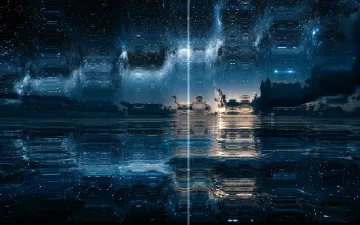
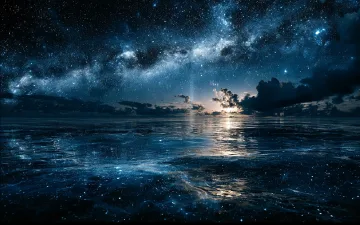
wave_at warps where its band is: one front for the ridge and the band, soft band (SH-E); corona ring without a seam, jitter by the current ring (SH-E)

diff --git a/scena/effects.py b/scena/effects.py
@@ -787,6 +787,62 @@ _RIPPLE_FALLOFF = 1.35
 _EXPLOSION_SHOCK_SPAN = 0.4
 
 
+def _wave_front(u: float, w: float, h: float) -> Tuple[float, float, float]:
+    """``wave_at`` front at progress ``u`` (0–1): ``(distance, band, half_length)`` px.
+
+    One source for the warp ridge (``_RIPPLE_SKSL`` linear mode) and the accent
+    band, so the two travel together. The front slows as it goes (a shock
+    spends itself); the band grows longer as it spreads.
+    """
+    short = max(1.0, min(float(w), float(h)))
+    u = max(0.0, min(1.0, float(u)))
+    eased = 1.0 - (1.0 - u) ** 2
+    return (
+        short * (0.03 + 0.62 * eased),
+        short * 0.07,
+        short * (0.2 + 0.4 * eased),
+    )
+
+
+# wave_at band across the front, in core widths from the front (− = behind):
+# a sharp leading edge and a longer glow trailing toward the source.
+_WAVE_BAND_STOPS = ((-6.0, 0.0), (-2.5, 0.15), (-0.8, 0.5), (0.0, 1.0), (0.8, 0.3), (2.0, 0.0))
+
+
+def _draw_wave_band(canvas, cx: float, cy: float, angle: float, u: float, w: float, h: float) -> None:
+    """``wave_at`` accent: light on the front of ``_wave_front``, faded at both ends."""
+    front, band, half = _wave_front(u, w, h)
+    rise = min(1.0, u / 0.06)
+    peak = 0.6 * (1.0 - u) ** 1.2 * rise
+    if peak < 1e-3:
+        return
+    core = band * 0.22
+    x0 = front + _WAVE_BAND_STOPS[0][0] * core
+    x1 = front + _WAVE_BAND_STOPS[-1][0] * core
+    span = x1 - x0
+    r, g, b = 0.85, 0.95, 1.0
+    across = skia.GradientShader.MakeLinear(
+        [skia.Point(x0, 0.0), skia.Point(x1, 0.0)],
+        [skia.Color4f(r, g, b, peak * a).toColor() for _, a in _WAVE_BAND_STOPS],
+        [(front + k * core - x0) / span for k, _ in _WAVE_BAND_STOPS],
+    )
+    along = skia.GradientShader.MakeLinear(
+        [skia.Point(0.0, -half), skia.Point(0.0, half)],
+        [0x00FFFFFF, 0xFFFFFFFF, 0xFFFFFFFF, 0x00FFFFFF],
+        [0.0, 0.3, 0.7, 1.0],
+    )
+    paint = skia.Paint(
+        Shader=skia.Shaders.Blend(skia.BlendMode.kModulate, across, along),
+        AntiAlias=True,
+        BlendMode=skia.BlendMode.kPlus,
+    )
+    canvas.save()
+    canvas.translate(cx, cy)
+    canvas.rotate(math.degrees(angle))
+    canvas.drawRect(skia.Rect.MakeLTRB(x0, -half, x1, half), paint)
+    canvas.restore()
+
+
 def _zap_soft_disc_image():
     """White soft radial disc (premul) — same recipe as SpatialFx GlowSpot stamps."""
     global _ZAP_SOFT_DISC, _ZAP_SOFT_SAMPLING
@@ -1369,6 +1425,23 @@ def _draw_zap_fork(canvas, zap: dict, ox: float, oy: float, dx: float, t: float)
             )
 
 
+def _corona_ring_points(ox: float, oy: float, ring_r: float, n_arc: int, seed: float, t: float) -> list:
+    """The corona ring's ``n_arc`` vertices, once each (the caller closes the path).
+
+    Jitter is a share of the ring's current radius: a fraction of the final
+    radius mangles the small ring of the first frames. A vertex at ``tau``
+    would repeat vertex 0 with another hash and draw a notch at the seam.
+    """
+    pts = []
+    for i in range(n_arc):
+        ang = i / n_arc * math.tau + t * 3.5
+        j = (_frac_hash(i + 0.5, seed + t * 0.7) - 0.5) * ring_r * 0.12
+        j += math.sin(ang * 5.0 + t * 22.0) * ring_r * 0.04
+        r = ring_r + j
+        pts.append((ox + math.cos(ang) * r, oy + math.sin(ang) * r))
+    return pts
+
+
 def _draw_zap_corona(canvas, zap: dict, ox: float, oy: float, dx: float, t: float) -> None:
     """v3 — electric corona: expanding jagged ring + rim arcs (ElectricBolt family)."""
     p = zap["t"] / max(zap["duration"], 1e-3)
@@ -1391,14 +1464,7 @@ def _draw_zap_corona(canvas, zap: dict, ox: float, oy: float, dx: float, t: floa
     n_arc = 6 if survival else max(8, len(zap["parts"]))
     # Closed jagged corona path
     path = skia.Path()
-    for i in range(n_arc + 1):
-        u = i / n_arc
-        ang = u * math.tau + t * 3.5
-        j = (_frac_hash(i + 0.5, zap["seed"] + t * 0.7) - 0.5) * radius * 0.12
-        j += math.sin(ang * 5.0 + t * 22.0) * radius * 0.04
-        r = ring_r + j
-        x = ox + math.cos(ang) * r
-        y = oy + math.sin(ang) * r
+    for i, (x, y) in enumerate(_corona_ring_points(ox, oy, ring_r, n_arc, zap["seed"], t)):
         if i == 0:
             path.moveTo(x, y)
         else:
@@ -2846,6 +2912,8 @@ class HitFeedback(PostEffect):
                 mode=self._ripple_mode if need_ripple else 0.0,
                 angle=self._ripple_angle if need_ripple else 0.0,
                 span=self._ripple_span if need_ripple else 1.0,
+                front=_wave_front(progress, w, h)
+                if need_ripple and self._ripple_mode > 0.5 else (0.0, 0.0, 0.0),
             )
         if need_shake:
             canvas.restore()
@@ -2880,30 +2948,13 @@ class HitFeedback(PostEffect):
             )
             canvas.drawCircle(cx, cy, radius, paint)
 
-        # Linear wave accent: short glowing band along the front.
+        # Linear wave accent: a soft band of light on the warp's front.
         if self._ripple_shock and self._ripple_t < 0.9 and self._ripple_mode > 0.5:
-            u = self._ripple_t / 0.9
-            alpha = max(0.0, 1.0 - u)
-            cx = self._ripple_uv[0] * w + sox
-            cy = self._ripple_uv[1] * h + soy
-            # Progress pushes the front outward along the wave normal.
-            dist = (20.0 + u * min(w, h) * 0.4)
-            nx = math.cos(self._ripple_angle)
-            ny = math.sin(self._ripple_angle)
-            px, py = -ny, nx
-            half_len = min(w, h) * 0.55
-            x0 = cx + nx * dist - px * half_len
-            y0 = cy + ny * dist - py * half_len
-            x1 = cx + nx * dist + px * half_len
-            y1 = cy + ny * dist + py * half_len
-            paint = skia.Paint(
-                Style=skia.Paint.kStroke_Style,
-                StrokeWidth=3.0 + 5.0 * (1.0 - u),
-                Color4f=skia.Color4f(0.85, 0.95, 1.0, 0.32 * alpha),
-                AntiAlias=True,
-                BlendMode=skia.BlendMode.kPlus,
+            _draw_wave_band(
+                canvas,
+                self._ripple_uv[0] * w + sox, self._ripple_uv[1] * h + soy,
+                self._ripple_angle, self._ripple_t / 0.9, w, h,
             )
-            canvas.drawLine(x0, y0, x1, y1, paint)
 
         # Pyro pool: cinematic (screen-scaled) + local (design radius) bursts.
         for b in self._bursts:

diff --git a/scena/_sksl_effects.py b/scena/_sksl_effects.py
@@ -287,33 +287,41 @@ uniform float u_flash;
 uniform float u_mode;
 uniform float u_angle;
 uniform float u_span;
+uniform float u_front;
+uniform float u_band;
+uniform float u_half;
 
 half4 main(float2 coord) {
     float2 uv = coord / resolution;
     float aspect = resolution.y / max(resolution.x, 1.0);
+    // d is in widths on both axes: dot(d, dir) * resolution.x is pixels.
     float2 d = float2(uv.x - u_center.x, (uv.y - u_center.y) * aspect);
-    float span = max(u_span, 0.05);
-    float dist;
-    float2 n;
-    float wave_arg;
+    float2 disp;
     if (u_mode > 0.5) {
-        // Linear: displace along a single normal (no sign flip → no seam).
+        // Linear: one refracting ridge on the travelling front, the front the
+        // accent band is drawn on (u_front / u_band / u_half, in widths).
         float2 dir = float2(cos(u_angle), sin(u_angle));
-        float sd = dot(d, dir);
-        dist = abs(sd);
-        n = dir;
-        wave_arg = (sd / span) * 48.0 - (1.0 - u_progress) * 18.0;
+        float2 side = float2(-dir.y, dir.x);
+        float x = (dot(d, dir) - u_front) / max(u_band, 1e-4);
+        float along = 1.0 - smoothstep(u_half * 0.6, u_half, abs(dot(d, side)));
+        float rise = clamp(u_progress / 0.06, 0.0, 1.0);
+        float env = pow(max(0.0, 1.0 - u_progress), 1.5) * rise;
+        // Derivative of a Gaussian, peak 1: a push ahead and a pull behind.
+        float ridge = -x * exp(-x * x) * 2.3316;
+        disp = dir * ridge * along * env * u_strength * u_band * 0.3 * resolution.x;
     } else {
-        dist = length(d);
-        n = dist > 1e-4 ? d / dist : float2(0.0);
-        wave_arg = (dist / span) * 48.0 - (1.0 - u_progress) * 18.0;
+        float span = max(u_span, 0.05);
+        float dist = length(d);
+        float2 n = dist > 1e-4 ? d / dist : float2(0.0);
+        float wave_arg = (dist / span) * 48.0 - (1.0 - u_progress) * 18.0;
+        float env = max(0.0, 1.0 - u_progress);
+        env = env * env;
+        float wave = sin(wave_arg);
+        float fall = max(0.0, 1.0 - (dist / span) * 1.35);
+        float amp = fall * wave * env * u_strength;
+        disp = n * amp * resolution.x * 0.045;
     }
-    float env = max(0.0, 1.0 - u_progress);
-    env = env * env;
-    float wave = sin(wave_arg);
-    float fall = max(0.0, 1.0 - (dist / span) * 1.35);
-    float amp = fall * wave * env * u_strength;
-    float2 sample_xy = coord + n * amp * resolution.x * 0.045;
+    float2 sample_xy = coord + disp;
     half4 col = image.eval(sample_xy);
     col.rgb = mix(col.rgb, half3(1.0), half(clamp(u_flash, 0.0, 1.0)));
     return col;
@@ -1303,10 +1311,13 @@ def draw_ripple_shader(
     mode: float = 0.0,
     angle: float = 0.0,
     span: float = 1.0,
+    front: Tuple[float, float, float] = (0.0, 0.0, 0.0),
 ) -> None:
     """Fullscreen hit-ripple / linear wave + optional white flash (HitFeedback).
 
     ``span`` scales the warp radius (1 = ``ripple_at``; explosion shock is smaller).
+    ``front`` is the linear wave's ``(distance, band, half_length)`` in pixels
+    (``effects._wave_front``), the same numbers the accent band is drawn with.
     """
     sh = image.makeShader(skia.TileMode.kClamp, skia.TileMode.kClamp)
     _ripple_builder.setChild("image", sh)
@@ -1318,7 +1329,25 @@ def draw_ripple_shader(
     _ripple_builder.setUniform("u_mode", float(mode))
     _ripple_builder.setUniform("u_angle", float(angle))
     _ripple_builder.setUniform("u_span", float(max(span, 0.05)))
+    wd = max(float(w), 1.0)
+    _ripple_builder.setUniform("u_front", float(front[0]) / wd)
+    _ripple_builder.setUniform("u_band", float(front[1]) / wd)
+    _ripple_builder.setUniform("u_half", float(front[2]) / wd)
     paint = skia.Paint(Shader=_ripple_builder.makeShader(), AntiAlias=False)
+    if mode > 0.5 and flash <= 0.0 and front[1] > 0.0:
+        # The linear ridge moves nothing past 3 band widths (exp(-9)) or past
+        # the band's length: the plain image, then the shader on that strip.
+        canvas.drawImage(image, 0, 0)
+        canvas.save()
+        m = canvas.getTotalMatrix()
+        canvas.translate(float(center_uv[0]) * w, float(center_uv[1]) * h)
+        canvas.rotate(math.degrees(float(angle)))
+        f, b, half = (float(v) for v in front)
+        canvas.clipRect(skia.Rect.MakeLTRB(f - 3.2 * b, -half, f + 3.2 * b, half), False)
+        canvas.setMatrix(m)
+        canvas.drawRect(skia.Rect.MakeWH(w, h), paint)
+        canvas.restore()
+        return
     canvas.drawRect(skia.Rect.MakeWH(w, h), paint)
 
 

diff --git a/tests/test_postfx.py b/tests/test_postfx.py
@@ -360,6 +360,69 @@ class TestPostFxStack(unittest.TestCase):
         hit = canvas.effects._hit_feedback()
         self.assertLess(hit._shake, 0.5)
 
+    def _wave_row_centres(self, hit):
+        """Row y=300 of an 800×600 plate: (warp centre x, band peak x, warp share behind x=400)."""
+        import numpy as np
+        import skia
+        src_s = skia.Surface(800, 600)
+        sc = src_s.getCanvas()
+        sc.clear(skia.ColorBLACK)
+        for x in range(0, 800, 8):
+            sc.drawRect(skia.Rect.MakeXYWH(x, 0, 4, 600), skia.Paint(Color=skia.ColorWHITE))
+        src = src_s.makeImageSnapshot()
+        base = src.toarray(colorType=skia.kRGBA_8888_ColorType)[300, :, 0].astype(float)
+        out = skia.Surface(800, 600)
+        hit._draw_shader(out.getCanvas(), src, 800, 600, 0.0)
+        row = out.makeImageSnapshot().toarray(colorType=skia.kRGBA_8888_ColorType)[300, :, 0]
+        diff = np.abs(row.astype(float) - base)
+        xs = np.arange(800)
+        warp = float((diff * xs).sum() / max(diff.sum(), 1e-6))
+        band = self._render(hit)[300, :, 0].astype(float)
+        return warp, float(band.argmax()), float(diff[:390].sum() / max(diff.sum(), 1e-6))
+
+    def test_wave_at_band_rides_the_warp_front(self):
+        # SH-E: the warp's crests moved toward the origin, on both sides of
+        # it, while the accent line marched one way: the line sat on nothing.
+        # Now one front (_wave_front) places the warp ridge and the band.
+        from scena.effects import _wave_front
+        canvas.effects.clear()
+        canvas.wave_at(400, 300, angle=0, shake=False)
+        hit = canvas.effects._hit_feedback()
+        seen = []
+        for dt in (0.15, 0.25):
+            hit.tick_frame(dt, canvas)
+            warp, band, behind = self._wave_row_centres(hit)
+            front, width, _ = _wave_front(hit._ripple_t / 0.9, 800, 600)
+            self.assertAlmostEqual(warp, 400 + front, delta=width * 0.4)
+            self.assertAlmostEqual(band, 400 + front, delta=width * 0.25)
+            self.assertLess(behind, 0.02)   # one-sided: nothing warps behind the source
+            seen.append(warp)
+        self.assertGreater(seen[1], seen[0] + 20)   # the front travels outward
+
+    def test_wave_front_moves_out_and_slows(self):
+        from scena.effects import _wave_front
+        fronts = [_wave_front(u / 10, 800, 600)[0] for u in range(11)]
+        steps = [b - a for a, b in zip(fronts, fronts[1:])]
+        self.assertTrue(all(s > 0 for s in steps))
+        self.assertTrue(all(b <= a for a, b in zip(steps, steps[1:])))
+
+    def test_corona_ring_has_no_seam(self):
+        # SH-E: the ring loop ran to i == n and drew vertex 0 again with
+        # another jitter, so a notch sat at the seam; jitter was a share of
+        # the final radius, so the small ring of the first frames was mangled.
+        from scena.effects import _corona_ring_points
+        for seed in (1.31, 2.62, 7.0):
+            for t in (0.0, 0.07, 0.31):
+                for ring_r in (6.0, 60.0):
+                    pts = _corona_ring_points(0.0, 0.0, ring_r, 12, seed, t)
+                    self.assertEqual(len(pts), 12)
+                    angs = sorted(math.atan2(y, x) % math.tau for x, y in pts)
+                    gaps = [b - a for a, b in zip(angs, angs[1:])] + [angs[0] + math.tau - angs[-1]]
+                    for g in gaps:
+                        self.assertAlmostEqual(g, math.tau / 12, delta=1e-6)
+                    for x, y in pts:
+                        self.assertLessEqual(abs(math.hypot(x, y) - ring_r), ring_r * 0.1 + 1e-9)
+
     def test_explosion_at_api(self):
         canvas.effects.clear()
         canvas.explosion_at(150, 250, amount=1.0)

diff --git a/design/Effect System Design.md b/design/Effect System Design.md
@@ -889,11 +889,11 @@ Replace-in-channel: a second `fade_out` / `fade_in` drops the in-flight tween an
 - `canvas.shake(amount=10)` — camera jitter (design pixels).
 - `canvas.glitch(amount=1.0)` — slice offsets + RGB split spike (0–1).
 - `ripple_at` — radial screen-warp + ring + shake; `amount` = warp/shake magnitude; `radius` = peak design-unit size (`None` = full-frame); `shock=True` (accent ring; warp still runs when off); `shake=True`; `flash=False` by default. Locus: `(x, y)` or one point-like (`info.point`, Graphic, …); `None` is a no-op.
-- `wave_at(x, y, angle=0)` — linear shockwave; same locus grammar; `shock=True` (accent band; warp still runs when off); `shake=True`; `flash=False` by default.
+- `wave_at(x, y, angle=0)` — linear shockwave; same locus grammar; `shock=True` (accent band; warp still runs when off); `shake=True`; `flash=False` by default. **One front:** `_wave_front(u, w, h)` gives the front's distance (eased: it slows as it goes), the ridge width and the half length, in FB pixels; the SkSL linear mode and `_draw_wave_band` both read it, so the warp and the band cannot drift apart (guard: `test_wave_at_band_rides_the_warp_front`). The warp is one refracting ridge on the front (a derivative of a Gaussian, peak displacement 0.3 × the ridge width × `amount`), on the side the wave travels to, faded at the band's ends. The band is Plus light, sharp on the leading edge with a longer glow trailing toward the source, faded at both ends. Without a flash, `draw_ripple_shader` draws the plain image and runs the shader only on the strip within 3.2 ridge widths of the front.
 - `explosion_at(..., shock=True, flash=False, rings=True)` — cinematic fireball + smoke; mild warp when `shock` (radius ~2/5 of `ripple_at`); camera shake; `flash` toggles whiteout; `rings` draws expanding stroke circles. (one big event + share the burst pool). Same locus grammar.
 - `burst_at(x, y, radius=42, amount=1.2, rings=False)` — local multi-instance pyro only (design-unit radius); no shake/flash/shock. Prefer for ship deaths etc. Same locus grammar (`burst_at(ship)`). Neither `burst_at` nor `explosion_at` has a `recipe=` any more: its `"flash"` disc-only pop was retired when `hit_at` landed; the disc now lives on as `hit_at(style="disc")` ([Fences](Fences.md)).
 - `fireworks_at(x, y, color=, color2=, radius=64, amount=1, count=28, fall=0, trail=0.35)` — celebration burst of stars at a point (no mortar, no shake/flash/shock). Distinct from `burst_at` (fireball) and SpatialFx `Sparks` (sticky). `fall=0` (default) peony; `~1.2` willow. `color2=None` derives near-white glitter from `color`. Pool ~24, auto-decays. Same locus grammar.
-- `zap_at(x, y, color=, radius=24, amount=1, count=, style="spark", flash=False)` — electric spark / lightning flash at a point (bright core + jagged rays). Between Bolt(tesla) and ElectricBolt. Styles: `spark` (impact bloom + short rays), `fork` (branched tesla bolts), `corona` (expanding jagged ring). Soft bloom uses GlowSpot soft-disc stamps at medium/high (concentric ADD discs at low); bolt strokes follow CheapGlow dual-ADD at medium and MaskFilter soft-band + sharp core at high. No shake/shock; optional `flash` whiteout. Distinct from SpatialFx `Sparks`. Pool ~24, auto-decays. Same locus grammar.
+- `zap_at(x, y, color=, radius=24, amount=1, count=, style="spark", flash=False)` — electric spark / lightning flash at a point (bright core + jagged rays). Between Bolt(tesla) and ElectricBolt. Styles: `spark` (impact bloom + short rays), `fork` (branched tesla bolts), `corona` (expanding jagged ring; `_corona_ring_points` gives each vertex once — a vertex at τ repeats vertex 0 with another hash and draws a notch — and jitter is a share of the ring's current radius). Soft bloom uses GlowSpot soft-disc stamps at medium/high (concentric ADD discs at low); bolt strokes follow CheapGlow dual-ADD at medium and MaskFilter soft-band + sharp core at high. No shake/shock; optional `flash` whiteout. Distinct from SpatialFx `Sparks`. Pool ~24, auto-decays. Same locus grammar.
 - `hit_at(x, y, color=, angle=None, radius=16, amount=1, count=None, style="star")` — impact mark: something was struck **and lives on** (hero / boss taking a shot). White-hot four-point star (holds full size ~2 frames, then shrinks) over a soft tinted glow, a thin crisp ring, and short spark streaks cooling from white to `color` (default warm white); ~0.2 s. `angle` (world degrees, y-up: 90 = up) aims the sparks in a ~100° cone and stretches the star arm along it; `None` sprays all around. Plus blend (emissive). No shake / flash / warp. Pool 64 (a boss under a stream of shots). Not `zap_at` (electric, jagged, bloom-heavy) and not `burst_at` (fire). Same locus grammar. `count` omitted = 8 sparks (3–24, scaled by quality); `count=0` keeps the star and ring with **no** sparks, and quality never adds them back. **`style="disc"`** is the light version: a round pop of light — a tinted radial disc opening to ~1.6 × `radius` (the star's sparks reach ~2 ×) over a soft white-hot core, same lifetime and pool as the star. It has no sparks and no direction, so `angle=` / `count=` with it raise `ValueError` instead of being ignored (`_hit_spec`, shared by the canvas verb and the engine, checked before the `None`-locus return). It draws at every quality: survival swaps the gradients for two concentric ADD discs (`zap_at`'s LOW recipe) faded faster so no flat plate lingers. `style` is a strict choice (`"star"` / `"disc"`, any case, no aliases). Guards: `test_hit_at_disc_is_a_round_pop_at_every_quality`, `test_hit_at_count_zero_keeps_star_without_sparks`, `test_hit_at_rejects_bad_knobs`. **The angle is never read from `info`:** `CollisionInfo.normal` points from `a` toward `b`, so `@collide("shot", "hero")` and `@collide("hero", "shot")` would spray opposite ways ([Fences](Fences.md)). World angle → FB goes through the camera turn and the y flip in `_remap_overlays` (guard: `test_hit_at_angle_points_up_on_screen`).
 - `debris_at(x, y, color=, radius=40, amount=1, count=14, fall=0, dust=True)` — matte debris: it broke into pieces, **no fire**. Irregular 3–5-gon shards (sizes skewed small, a few big; big ones slower) fly out with drag, tumble (fake light: brightness follows the turn), then shrink and fade over the last 40 % of their life; optional soft dust puffs (skipped at survival / low). **SrcOver, not Plus** — readable on bright backgrounds, the visual difference from pyro (guard: `test_debris_is_matte_not_emissive`). `amount` is force (reach); `fall` is the same knob as `fireworks_at` (`0` drifts, `~1` arcs down). Pieces are paint only: no collision. The color is never read from a Graphic locus (its fill may be a Gradient / Texture, and `debris_at(ship)` would differ from `debris_at(ship.center)`). Pool 16, 0.7–1.4 s. Chain with `burst_at` (ship blows apart) or `hit_at` (rock cracks). Same locus grammar.
 - `bubbles_at(x, y, color=, count=, height=)` / `bubbles(color=…)` — rising foam bubbles that fade/pop (canvas-wide transient). `bubbles_at` uses the same locus grammar.

diff --git a/design/Testing Design.md b/design/Testing Design.md
@@ -4011,7 +4011,9 @@ moving picture pays**, **a refusal that names no fix**. Commits on main
 | SH-D12 | Other costs (a post ~1–2 ms at 2×, full-screen multiply, Rain, `.tail`, Starburst, hover while the camera moves, link creation ~130 µs a link) | Documented cost | Hover must re-test while the camera moves (what is under the pointer changes); link creation parses the formula once | |
 | SH-E | GodRays defaults washed the picture out | Defaults 0.08 / 0.9 / 0.8 | 8 taps over the whole way to the light repeat bright objects ([Effect System](Effect%20System%20Design.md)) | |
 | SH-E | Large `orbit` / `zigzag` faceted | Fixed: samples a loop by chord tolerance | | `test_track.TestModifiers` |
-| SH-E | Look notes, not yet checked by eye: `wave_at` draws a straight grey line that reads as a glitch on line art; `zap_at(style="corona")` reads as a grey jagged disk on black; under Bloom, `"gold"` / `"orange"` read as near-pure yellow | Open: look decisions for the author | Bloom is additive and clips the colour channels, so a warm hue climbs to yellow; only tone mapping would keep it (recommendation: decline) | |
+| SH-E | `wave_at` drew a hard grey line across the whole screen that read as a glitch on line art, and the line sat on nothing: the warp's crests moved *toward* the origin, on both sides of it, while the line marched one way | Fixed (2026-10-26): one front, `effects._wave_front(u, w, h)`, gives the warp ridge and the band their distance, width and length. The warp is one refracting ridge on the front (one-sided, outward, slowing); the band is soft light on it, faded at both ends. The shader runs only on the strip around the front (−70 % CPU raster) | The ripple shader's phase term `48·d − 18·(1 − p)` puts a crest at a *smaller* `d` as `p` grows; the band had its own formula. Lesson: an accent drawn over a shader warp takes its position from the function that places the warp | `test_postfx`: `test_wave_at_band_rides_the_warp_front` (old engine: warp centred on the source, half of it behind, band 60–125 px ahead), `test_wave_front_moves_out_and_slows` |
+| SH-E | `zap_at(style="corona")`: a notch at the ring's seam; the small ring of the first frames came out mangled | Fixed (2026-10-26): `_corona_ring_points` gives each of the `n` vertices once; jitter is a share of the ring's current radius | The loop ran to `i == n` and drew vertex 0 again with another hash before `close()`; jitter was a share of the final radius (24 % of the young ring). The flat inner wash and the 12 facets (a "grey disk") are a look note, still open | `test_postfx.test_corona_ring_has_no_seam` |
+| SH-E | Under Bloom, `"gold"` and `"orange"` read as yellow; `"deep sky blue"` reads cyan, a green lime | Open: look decision for the author | Bloom adds its glow inside the shape too, and the sum is clipped per channel: gold (255, 215, 0) → (255, 255, 0). Tone mapping is not needed: a clip that keeps the channel ratios (a runtime blender in place of Plus) kept every hue in a prototype | |
 | SH-F | `Track.eight` drew height / 2 | Fixed: spans `width` × `height`; showcase eights halved | | `test_track.TestPresetSizes` |
 | SH-F | `"x" in st` | Refuses naming `st.exists("x")` | One spelling | `test_showcase_messages` |
 | SH-F | Transients only hide; the watchdog trips on a long building step; an `st` tween from a game task outlives `change_act`; a Text anchor read adds a Point | By design; Guia notes; the watchdog message names "build in pieces" | | Guia |
@@ -4039,7 +4041,8 @@ dirty edge for relational parts took both off the hot paths.
 
 | Found in | Issue | Planned |
 | --- | --- | --- |
-| Showcase review | SH-E: three look notes (`wave_at` on line art, `zap_at(style="corona")` on black, warm colours under Bloom) | The author's look decision |
+| Showcase review | SH-E: hues under Bloom (a ratio-keeping clip), the corona's flat wash and facets | The author's look decision |
+| SH-E (wave_at fix) | `ripple_at` and the `explosion_at` shock: the radial warp's crests move toward the centre while the accent ring expands (the cause `wave_at` had) | Same treatment as `wave_at`: one front for the ring and the warp |
 | RA3 (0.10.0 deep) | The solver's split of a ball-on-ball overlap depends on which body it takes first (10 px each, or 20 px for one) | Solver question; deterministic since the ordered weak sets |
 
 ### HD — holders (interaction campaign, class 2; 2026-10-09)

diff --git a/CHANGELOG.md b/CHANGELOG.md
@@ -42,6 +42,13 @@ left out.
   background and effect takes the forms `color=` takes.
 - The package says it runs on Python 3.13 and 3.14 (the classifiers named
   only 3.12); the test suite passes on both.
+- `canvas.wave_at` warps the picture where its band of light is: one ridge
+  that travels out from the point, on the side the wave goes to. The warp's
+  ripples moved toward the point, on both sides of it, while a hard grey
+  line crossed the screen apart from them. The band is now soft light, faded
+  at both ends.
+- `canvas.zap_at(style="corona")` draws a closed ring: a notch sat where the
+  ring met itself, and the small ring of the first frames was misshapen.
 
 ### Documentation
 
